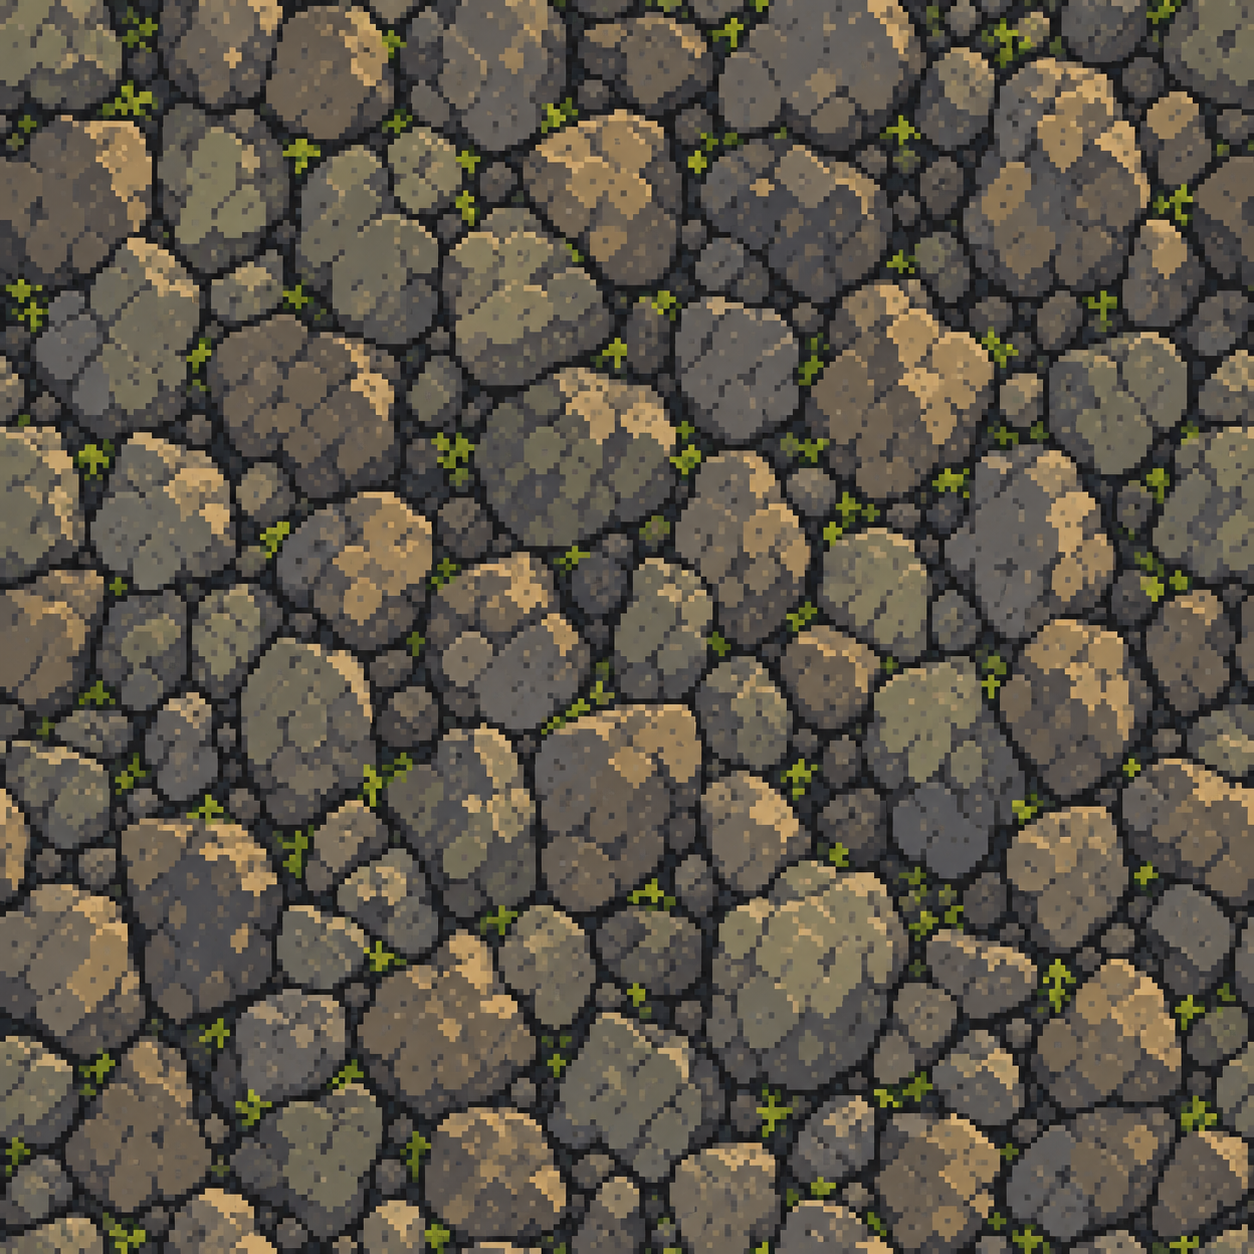
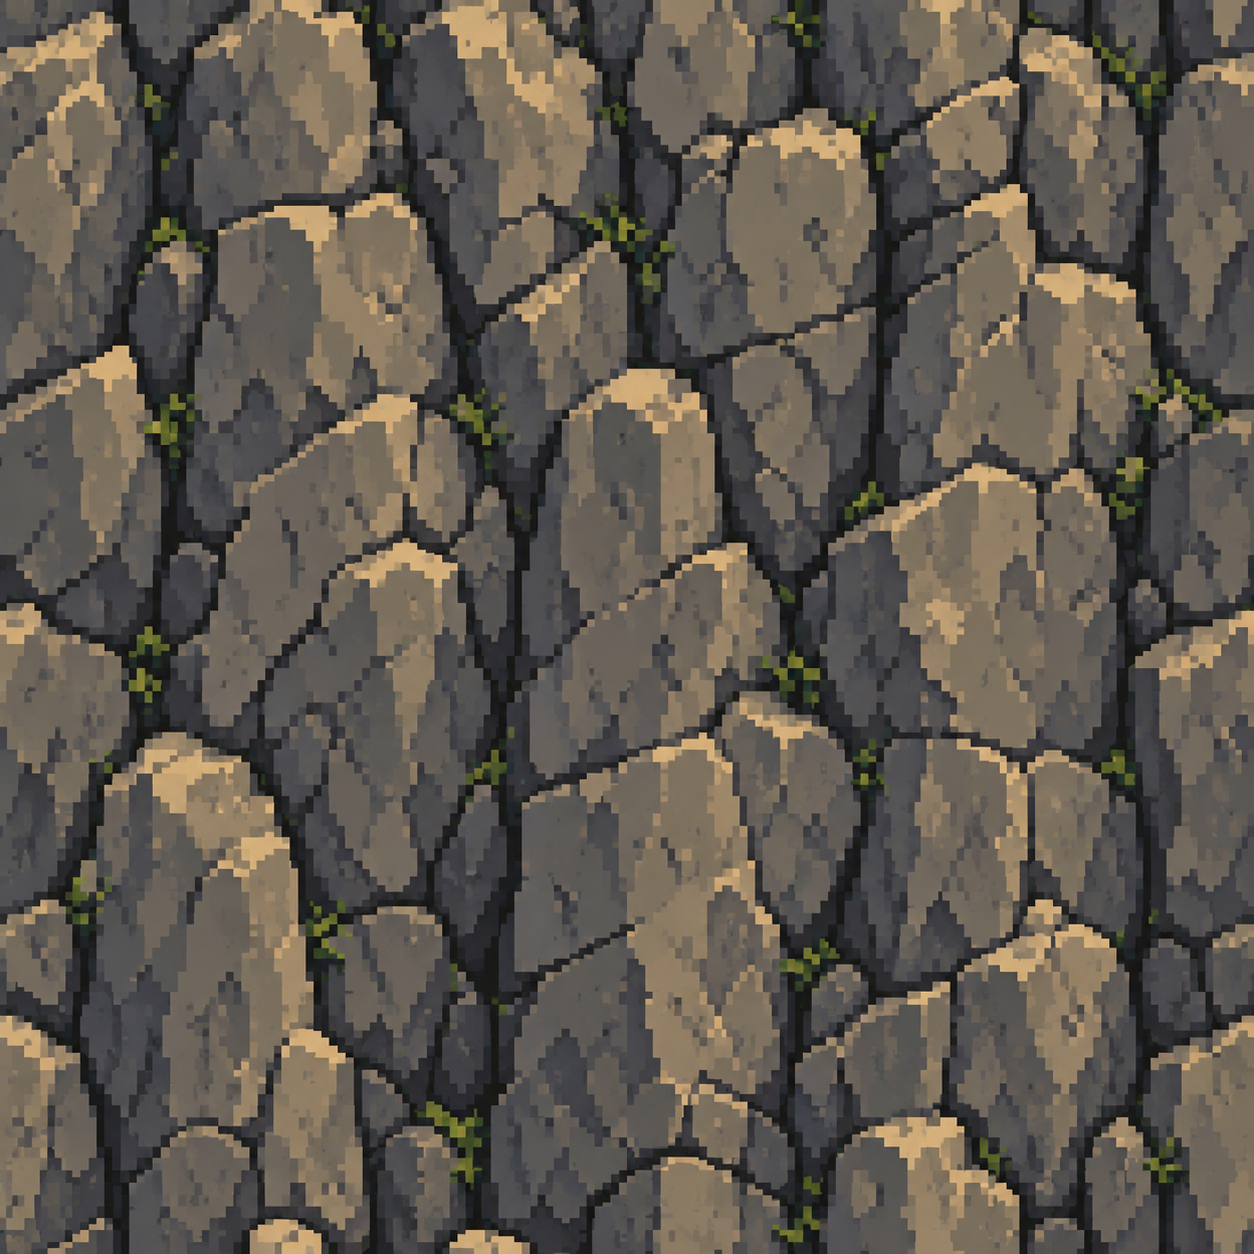
feat(2d): 浮島の岩盤素材と厚みのある草地を反映

diff --git a/apps/client/src/game/terrainLayer.ts b/apps/client/src/game/terrainLayer.ts
@@ -20,13 +20,31 @@ const updateMask = (mask: TerrainMask, region: Region, image: ImageData, above: 
     image.data[offset] = image.data[offset + 1] = image.data[offset + 2] = 255;
     image.data[offset + 3] = alpha;
   }
-  // The top moss rim also depends on the immediately preceding chunk row.
-  for (let x = 0; x < region.width; x++) {
-    const cell = region.y > 0 ? mask.cells[(region.y - 1) * mask.width + region.x + x]! : 0;
-    if (above[x] !== cell) dirty = true;
-    above[x] = cell;
+  // Hanging moss reaches two cells below its surface; include the air above it.
+  for (let row = 1; row <= 3; row++) for (let x = 0; x < region.width; x++) {
+    const cell = region.y >= row ? mask.cells[(region.y - row) * mask.width + region.x + x]! : 0;
+    const index = (row - 1) * region.width + x;
+    if (above[index] !== cell) dirty = true;
+    above[index] = cell;
   }
   return dirty;
+};
+
+const paintMoss = (ctx: CanvasRenderingContext2D, mask: TerrainMask, region: Region, scale: number) => {
+  for (let y = Math.max(0, region.y - 2); y < region.y + region.height; y++) for (let x = 0; x < region.width; x++) {
+    const index = y * mask.width + region.x + x;
+    if (!mask.cells[index] || (y > 0 && mask.cells[index - mask.width])) continue;
+    const top = (y - region.y) * scale;
+    for (let column = 0; column < 4; column++) {
+      const hash = ((region.x + x) * 37 + y * 17 + column * 11) >>> 0;
+      const left = x * scale + column * 3, depth = 16 + hash % 16;
+      ctx.fillStyle = "#294b32"; ctx.fillRect(left, top, 3, depth);
+      ctx.fillStyle = "#527b39"; ctx.fillRect(left, top, 3, depth - 5);
+      ctx.fillStyle = hash % 3 === 0 ? "#adbd56" : "#89a747"; ctx.fillRect(left, top, 3, 5 + hash % 7);
+      ctx.fillStyle = "#89a747"; ctx.fillRect(left, top + depth - 8, 2, 3);
+    }
+    ctx.fillStyle = "#74844c"; ctx.fillRect(x * scale, top, scale, 2);
+  }
 };
 
 const createChunk = (region: Region, scale: number, tile?: HTMLCanvasElement) => {
@@ -42,7 +60,7 @@ const createChunk = (region: Region, scale: number, tile?: HTMLCanvasElement) =>
   const texture = Texture.from(canvas); texture.source.scaleMode = "nearest";
   const sprite = new Sprite(texture);
   sprite.position.set(region.x, region.y); sprite.width = region.width; sprite.height = region.height;
-  const above = new Uint8Array(region.width);
+  const above = new Uint8Array(region.width * 3);
   let painted = false;
   const paint = (mask: TerrainMask) => {
     const dirty = updateMask(mask, region, image, above);
@@ -54,18 +72,10 @@ const createChunk = (region: Region, scale: number, tile?: HTMLCanvasElement) =>
     if (pattern) {
       ctx.globalCompositeOperation = "source-in"; ctx.fillStyle = pattern;
       ctx.fillRect(0, 0, canvas.width, canvas.height); ctx.globalCompositeOperation = "source-over";
-      for (let y = 0; y < region.height; y++) for (let x = 0; x < region.width; x++) {
-        const index = (region.y + y) * mask.width + region.x + x;
-        if (!mask.cells[index] || (region.y + y > 0 && mask.cells[index - mask.width])) continue;
-        // Keep every moss pixel inside its solid cell, including newly carved surfaces.
-        for (let column = 0; column < 4; column++) {
-          const hash = ((region.x + x) * 37 + (region.y + y) * 17 + column * 11) >>> 0;
-          const left = x * scale + column * 3, top = y * scale, depth = 5 + hash % 6;
-          ctx.fillStyle = "#384b32"; ctx.fillRect(left, top, 3, depth);
-          ctx.fillStyle = hash % 3 === 0 ? "#8d9c50" : "#627b3d"; ctx.fillRect(left, top, 3, depth - 2);
-        }
-        ctx.fillStyle = "#74844c"; ctx.fillRect(x * scale, y * scale, scale, 2);
-      }
+      paintMoss(ctx, mask, region, scale);
+      ctx.globalCompositeOperation = "destination-in";
+      ctx.drawImage(maskCanvas, 0, 0, canvas.width, canvas.height);
+      ctx.globalCompositeOperation = "source-over";
     }
     texture.source.update();
   };

diff --git a/apps/e2e/world-tests/scenes.spec.ts b/apps/e2e/world-tests/scenes.spec.ts
@@ -97,7 +97,8 @@ test("terrain art preserves collision alpha after carving and ordinary terrain s
       }
       for (const x of [0, canvas.width - 1]) {
         const expected = (sprite.x * scale + x) % 256 < 128 ? 255 : 0;
-        if (pixels[(24 * canvas.width + x) * 4] !== expected) continuous = false;
+        // Sample below the hanging moss (up to 31 art pixels deep).
+        if (pixels[(48 * canvas.width + x) * 4] !== expected) continuous = false;
       }
       return { scale, width: canvas.width, height: canvas.height };
     });
@@ -137,11 +138,14 @@ test("terrain only uploads changed chunks and refreshes the moss across a chunk 
     const boundary = [...updates];
     const canvas = layer.sprite.children[4].texture.source.resource as HTMLCanvasElement;
     const rim = Array.from(canvas.getContext("2d")!.getImageData(24, 0, 1, 1).data);
+    mask.cells[126 * 300 + 131] = 0; layer.update(mask);
+    const trailingMoss = [...updates];
     layer.destroy();
-    return { first, unchanged, boundary, rim };
+    return { first, unchanged, boundary, rim, trailingMoss };
   });
   expect(result.first).toEqual([1, 0, 0, 0, 0, 0]);
   expect(result.unchanged).toEqual(result.first);
   expect(result.boundary).toEqual([1, 1, 0, 0, 1, 0]);
+  expect(result.trailingMoss).toEqual([1, 2, 0, 0, 2, 0]);
   expect(result.rim).toEqual([116, 132, 76, 255]);
 });

diff --git a/scripts/assets/encode-world.py b/scripts/assets/encode-world.py
@@ -14,7 +14,7 @@ FILES = {
     "lobby": "world-ui-v1/lobby-v1.png",
     "settings": "world-ui-v1/settings-v1.png",
     "result": "world-ui-v1/result-v1.png",
-    "terrain": "world-ui-final/terrain-rock-v1.png",
+    "terrain": "world-ui-final/terrain-cliff-v2.png",
     "leaf": "world-ui-v1/leaf-v1.png",
     "panel": "world-ui-v1/panel-v1.png",
     "button": "world-ui-v1/button-v2.png",

diff --git a/docs/progress/completion-2026-09-10.md b/docs/progress/completion-2026-09-10.md
@@ -659,3 +659,10 @@ heartbeatはUI共同調整時にPAUSED。本ゴールは現在のタスクで進
 - production build / local edgeでChromium・Firefox・WebKitそれぞれ独立8contextの4v4を検証。全員の表情・成績共有、667×375で4列/2段と帰還ボタン到達、390×844で回転案内に遮られず帰還できること、全員の部屋復帰が成功（3件、3.2分）。画像も確認済み。
 - 初回WebKitは追加の表示検証を含め120秒のテスト枠を超過したため、全体枠を180秒へ変更。再実行は約2.1分で成功。ゲームの時間制限や通信SLOを変更したものではなく、実機性能の合格を示すものでもない。
 - 最終実行の初回対戦までの最大encoded transferは6,330,613B。型チェック・diff checkも成功。実機/地域/DOと正式素材承認、UI全体の原案整合は引き続き未完了。
+
+### 岩盤と草地の原案への調整
+
+- 内蔵画像生成で原案の崖を参照したterrain-cliff-v2を作成し、従来の細かな丸い岩から大きな角張った岩盤へ変更。元画像を保存しlosslessでruntimeへ登録。地形WebPは1,520,170Bから1,267,828Bへ減少。
+- 表面の草を16〜31 art pixelの濃淡がある房へ変更。隣の描画chunkから垂れる草のため直上3行の変更を追跡し、描画後に衝突マスクを再適用して空洞へ草がはみ出さないようにした。
+- 追加した境界更新テストの失敗を確認してから実装し、修正後に通過。従来の岩模様連続性テストは、草の伸長でサンプル位置24pxが草に覆われるため48pxへ移動。全画素alphaと白地形の検証は変更せず通過。
+- client typecheck、assets:check、diff check成功。4 viewportのworld scenes成功、地形2件の最終再検証成功。1440pxの地形と667pxの画面を目視確認。初期表示・破壊マスク・不要chunkの非更新は確認したが、公開環境の性能検証や原案全体との一致を完了扱いにはしない。

diff --git a/assets/workbench/world-ui-final/README.md b/assets/workbench/world-ui-final/README.md
@@ -30,3 +30,10 @@
 - Original: `exec-dbba4403-fe05-447b-bdf7-7e76626ad4c4.png` in the Codex generated_images directory for this task. Copied without editing. Two equal square panels, left victory and right defeat, same green pilot and olive jacket on navy background. No text or checkerboard.
 - Prompt requested matching identity/pixel density, joyful closed-eye smile on the left, gently disappointed face on the right, bust crop and matching scale.
 - Runtime encoding: lossless WebP through `scripts/assets/encode-world.py`; SVG crops each half without modifying the source. Reviewed in the eight-player result screen; formal user art approval remains pending.
+
+## terrain-cliff-v2.png
+
+- Built-in image generation using desktop-refined-v4.png as reference; no API/CLI generation. Original `exec-26922d20-86fa-4f7c-9c07-5d0c7a5b5f5e.png`, copied unchanged.
+- Prompt: square full-bleed tileable cliff material; 6–8 columns of broad angular basalt slabs, charcoal/olive planes, warm small highlights and sparse moss; no cobblestones, sky, grass border, UI or characters. Readable at a 256px runtime repeat.
+- Selected for runtime after desktop screenshot comparison. Pixel density and the large cliff fractures are closer to the design reference than the small round stones in v1. Repeated motifs remain visible; full scene fidelity and formal human art approval remain pending.
+- Source preserved and encoded losslessly by encode-world.py. Runtime grass is drawn within the collision mask and can hang up to 31 art pixels below a surface.
